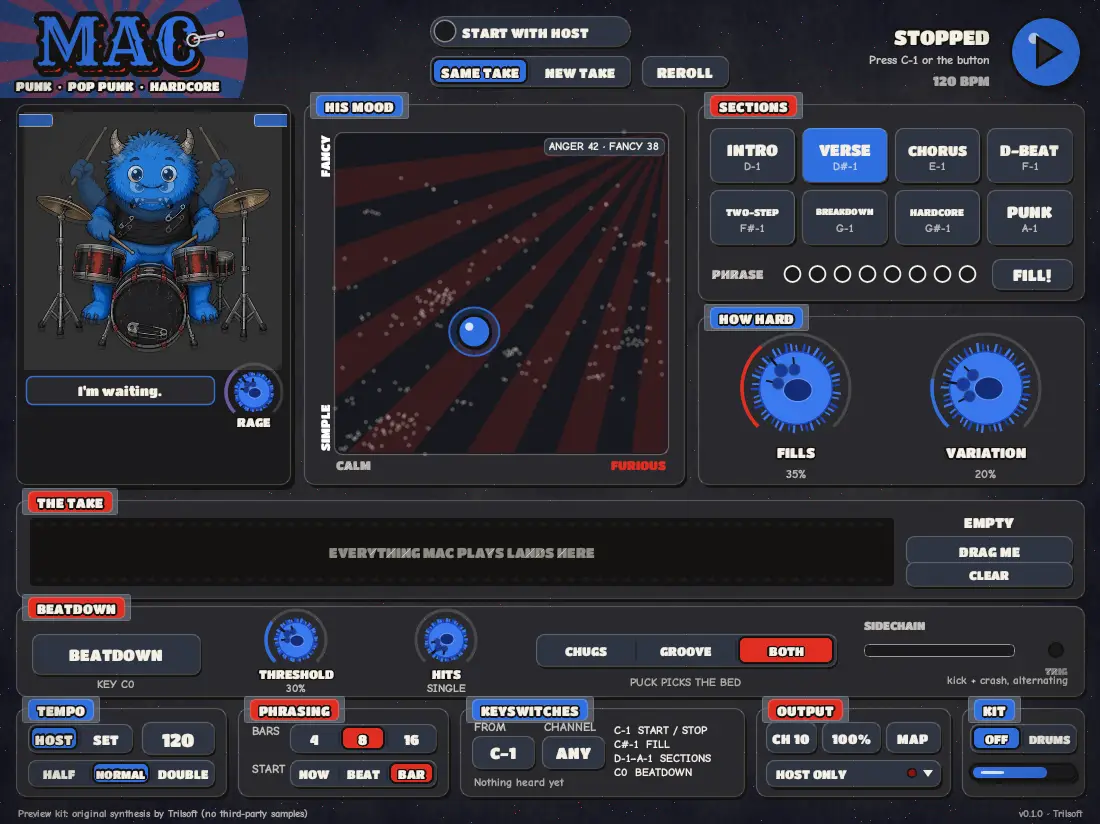
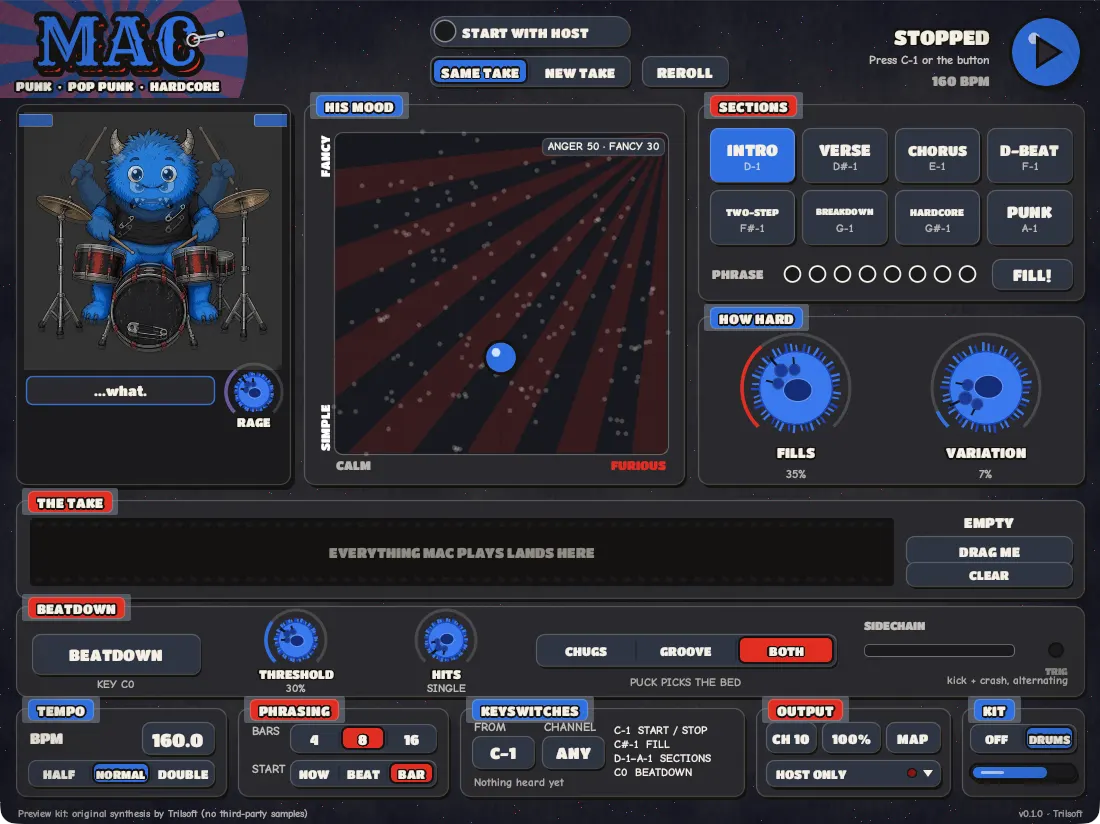
Use the current Mac and Bruno window screenshots.
Mac's tour and homepage now show the current default view, with Intro selected and Variation at 7%. Bruno's window uses the same current build, tall enough that Threshold and Hits stay on screen. The sidechain and port detail shots are unchanged.

diff --git a/public/bruno.html b/public/bruno.html
@@ -142,7 +142,7 @@ kbd{flex:none;font-family:var(--display);font-weight:400;font-size:13px;letter-s
 #cta .btn.buy{font-size:28px;padding:22px 42px 20px}
 
 /* overlays inside the window (window pixels, scaled with the camera) */
-.ov{position:absolute;left:0;top:0;width:1100px;height:736px;z-index:12;display:grid;place-items:center;background:rgba(28,21,18,.6);font-family:var(--body);font-weight:700;transition:opacity .3s}
+.ov{position:absolute;left:0;top:0;width:1100px;height:824px;z-index:12;display:grid;place-items:center;background:rgba(28,21,18,.6);font-family:var(--body);font-weight:700;transition:opacity .3s}
 .ov.off{opacity:0;visibility:hidden;pointer-events:none}
 .ov .box{background:var(--paper);border:3px solid var(--ink);border-radius:14px;box-shadow:7px 8px 0 var(--ink);padding:24px 26px;color:var(--ink)}
 .installer .box{width:540px}
@@ -164,7 +164,7 @@ kbd{flex:none;font-family:var(--display);font-weight:400;font-size:13px;letter-s
 .prompt .act{background:var(--red);color:var(--paper);opacity:.5}
 .prompt .act.go{opacity:1}
 /* a MIDI keyboard, for the keyswitch beat */
-.kb{position:absolute;left:470px;top:518px;width:268px;height:92px;z-index:11;transition:opacity .3s,transform .3s}
+.kb{position:absolute;left:470px;top:606px;width:268px;height:92px;z-index:11;transition:opacity .3s,transform .3s}
 .kb.off{opacity:0;transform:translateY(10px)}
 .kb .keys2{position:absolute;inset:0;background:var(--ink);border:3px solid var(--ink);border-radius:8px;box-shadow:5px 6px 0 rgba(28,21,18,.8);overflow:hidden}
 .kb .w{position:absolute;top:0;bottom:0;width:calc(100% / 7 - 2px);background:#fffaf0;border-radius:0 0 5px 5px}
@@ -389,7 +389,7 @@ html.static .poster,html.static .poster .burst,html.static .poster .bruno{animat
 <script src="/js/bruno-window.js"></script>
 <script>
 (() => {
-const W = 1100, H = 736;
+const W = 1100, H = 824;
 const ui = document.getElementById('ui');
 const host = document.createElement('div');
 ui.appendChild(host);
@@ -506,7 +506,7 @@ const beats = [
       if (a >= .78) click(st, a, win.seg('take', 0, 2), ctr('reroll'), .78, .88, .95, 'reroll');
     } },
   { id: 'beatdown', rail: 'Beatdown', len: 1.3 },
-  { id: 'phrasing', rail: 'Phrasing', focus: [pad(win.rect('tempo'), 0, 14), pad(win.rect('phrasing'), 0, 14)], cam: [8, 596, 452, 120], camPort: [8, 596, 452, 120], len: 1.5,
+  { id: 'phrasing', rail: 'Phrasing', focus: [pad(win.rect('tempo'), 0, 14), pad(win.rect('phrasing'), 0, 14)], cam: [8, 684, 452, 120], camPort: [8, 684, 452, 120], len: 1.5,
     apply(st, a, d) {
       if (d) { st.phrase = 16; st.launch = 'BEAT'; return; }
       let p = [300, 560];
@@ -516,7 +516,7 @@ const beats = [
       if (a >= .58) { st.setBpm = 160 + Math.round(24 * sm(seg(a, .6, .76))); }
       if (a >= .6 && a < .8) st.cur = { x: ctr('bpm')[0], y: ctr('bpm')[1] - 30 * sm(seg(a, .6, .76)), down: true };
     } },
-  { id: 'keys', rail: 'Keyswitches', focus: [pad(win.rect('keys'), 0, 14), pad(win.rect('sections'), 0, 14)], cam: [446, 92, 646, 620], camPort: [446, 300, 646, 420], len: 1.5,
+  { id: 'keys', rail: 'Keyswitches', focus: [pad(win.rect('keys'), 0, 14), pad(win.rect('sections'), 0, 14)], cam: [446, 92, 646, 720], camPort: [446, 300, 646, 510], len: 1.5,
     apply(st, a, d) {
       if (d) { st.section = 4; st.lastKey = 18; return; }
       st.kbOn = 1;
@@ -538,15 +538,15 @@ const beats = [
       const u = sm(seg(a, .28, .86));
       if (a >= .28) { st.cur = { x: dm[0] - 300 * u, y: dm[1] + 110 * u, down: true, drag: true }; st.clip = { x: st.cur.x + 14, y: st.cur.y + 10, o: a < .95 }; }
     } },
-  { id: 'output', rail: 'Output', focus: pad(win.rect('output'), 0, 14), cam: [560, 548, 540, 178], camPort: [560, 548, 540, 178], len: 1.4,
+  { id: 'output', rail: 'Output', focus: pad(win.rect('output'), 0, 14), cam: [560, 636, 540, 178], camPort: [560, 636, 540, 178], len: 1.4,
     apply(st, a, d) {
       if (d) { st.velocity = .9; st.port = 'VIRTUAL'; return; }
       const v = ctr('vel');
-      point(st, a, [600, 600], v, 0, .14, .4);
+      point(st, a, [600, 688], v, 0, .14, .4);
       if (a >= .14) { st.velocity = lerp(1, .9, sm(seg(a, .16, .34))); if (a < .4) st.cur = { x: v[0], y: v[1] + 20 * sm(seg(a, .16, .34)), down: true }; }
       if (a >= .4) click(st, a, [v[0], v[1] + 20], ctr('port'), .4, .52, .58, 'port', () => (st.portsOpen = true));
-      if (a >= .58 && a < .84) { const it = [800, 580 - 4 + 15 + 30]; point(st, a, ctr('port'), it, .58, .74, .84); st.portHover = a > .68 ? 1 : -1; }
-      if (a >= .84) { st.portsOpen = false; st.port = 'VIRTUAL'; st.cur = { x: 800, y: 621, down: false }; }
+      if (a >= .58 && a < .84) { const it = [800, 668 - 4 + 15 + 30]; point(st, a, ctr('port'), it, .58, .74, .84); st.portHover = a > .68 ? 1 : -1; }
+      if (a >= .84) { st.portsOpen = false; st.port = 'VIRTUAL'; st.cur = { x: 800, y: 709, down: false }; }
     } },
   { id: 'map', rail: 'Map', focus: pad(win.rect('notemap'), -2, 14), cam: [262, 104, 576, 442], camPort: [262, 104, 576, 442], len: 1.4,
     apply(st, a, d) {
@@ -559,10 +559,10 @@ const beats = [
       if (a >= .38) click(st, a, plus, gm, .38, .54, .6, 'gm', () => (st.notes = {}));
       if (a >= .66) click(st, a, gm, done, .66, .82, .88, 'done', () => (st.mapOpen = a < .9));
     } },
-  { id: 'kit', rail: 'Kit', focus: pad(win.rect('kit'), 0, 14), cam: [940, 596, 156, 120], camPort: [880, 596, 216, 120], len: 1.15,
+  { id: 'kit', rail: 'Kit', focus: pad(win.rect('kit'), 0, 14), cam: [940, 684, 156, 130], camPort: [880, 684, 216, 130], len: 1.15,
     apply(st, a, d) {
       if (d) { st.kit = 'DRUMS'; st.vol = .65; return; }
-      click(st, a, [900, 560], win.seg('kitsegs', 1, 2), 0, .2, .28, 'kit', () => (st.kit = 'DRUMS'));
+      click(st, a, [900, 648], win.seg('kitsegs', 1, 2), 0, .2, .28, 'kit', () => (st.kit = 'DRUMS'));
       if (a >= .4) {
         const r = win.rect('vol');
         point(st, a, win.seg('kitsegs', 1, 2), [r[0] + r[2] * .8, r[1] + 8], .4, .54, 1);

diff --git a/public/js/bruno-window.js b/public/js/bruno-window.js
@@ -11,7 +11,7 @@
    section sits in the built-in bank (x anger, y fancy). */
 (function (G) {
 'use strict';
-const W = 1100, H = 736;
+const W = 1100, H = 824;
 const INK = '#1c1512', PAPER = '#f6eacf', PAPER_DARK = '#e2cd9f', RED = '#b5322a', RED_DARK = '#7a1f1a',
   MUSTARD = '#e0a526', ORANGE = '#e87828', TEAL = '#3f7f7a', TEAL_DARK = '#244e4a', WHITE = '#ffffff';
 const TAU = Math.PI * 2, PI = Math.PI;
@@ -114,11 +114,11 @@ const RECTS = {
   sections: R(698, 104, 1084, 300), marquees: R(710, 128, 1072, 244), phrase: [710, 259, 260, 30], fillnow: [992, 259, 80, 30],
   knobs: R(698, 316, 1084, 484), fillknob: [736, 328, 120, 150], varknob: [926, 328, 120, 150],
   takestrip: R(16, 500, 1084, 598), strip: R(30, 518, 894, 586), takeside: R(906, 514, 1072, 588), dragme: [906, 536, 166, 28], clear: [906, 562, 166, 24],
-  tempo: R(16, 620, 226, 708), tempoSrc: [28, 636, 104, 28], bpm: [142, 634, 72, 32], speed: [28, 672, 186, 26],
-  phrasing: R(238, 620, 448, 708), bars: [290, 636, 146, 28], launch: [290, 672, 146, 26],
-  keys: R(460, 620, 744, 708), keyFrom: [472, 648, 62, 32], keyCh: [542, 648, 62, 32], legend: [612, 632, 130, 50],
-  output: R(756, 620, 950, 708), chan: [766, 634, 50, 30], vel: [822, 634, 58, 30], map: [886, 634, 54, 30], port: [766, 672, 174, 26],
-  kit: R(962, 620, 1084, 708), kitsegs: [970, 636, 106, 28], vol: [970, 676, 106, 16],
+  tempo: R(16, 708, 226, 796), tempoSrc: [28, 724, 104, 28], bpm: [142, 722, 72, 32], speed: [28, 760, 186, 26],
+  phrasing: R(238, 708, 448, 796), bars: [290, 724, 146, 28], launch: [290, 760, 146, 26],
+  keys: R(460, 708, 744, 796), keyFrom: [472, 736, 62, 32], keyCh: [542, 736, 62, 32], legend: [612, 720, 130, 50],
+  output: R(756, 708, 950, 796), chan: [766, 722, 50, 30], vel: [822, 722, 58, 30], map: [886, 722, 54, 30], port: [766, 760, 174, 26],
+  kit: R(962, 708, 1084, 796), kitsegs: [970, 724, 106, 28], vol: [970, 764, 106, 16],
   notemap: [270, 120, 560, 420], portmenu: [650, 572, 300, 96],
 };
 for (let i = 0; i < 8; i++) RECTS['sec' + i] = [710 + (i % 4) * 92.5, 128 + Math.floor(i / 4) * 62, 84.5, 54];
@@ -355,6 +355,8 @@ function BrunoWindow(host, opts = {}) {
   const fontUrl = f => (opts.fonts && opts.fonts[f]) || base + 'assets/fonts/bruno/' + FONTS[f].file;
   const art = new Image();
   art.src = opts.art || base + 'assets/bruno-art.webp';
+  const shot = new Image();
+  shot.src = opts.shot || base + 'img/bruno/ui-current.webp';
   const cv = document.createElement('canvas');
   cv.setAttribute('role', 'img');
   cv.setAttribute('aria-label', "Bruno's window: his stage, the mood pad, sections, fills and variation, the take, and the settings.");
@@ -432,6 +434,12 @@ function BrunoWindow(host, opts = {}) {
     st = Object.assign({}, BASE, st);
     const t = st.time, f = feel(st);
     c.setTransform(scale, 0, 0, scale, 0, 0);
+    if (shot.complete && shot.naturalWidth) {
+      c.drawImage(shot, 0, 0, W, H);
+      portMenu(st);
+      noteMap(st);
+      return;
+    }
     c.fillStyle = PAPER; c.fillRect(0, 0, W, H);
     c.drawImage(paperTexture(), 0, 0, W, H);
     header(st, f);
@@ -681,7 +689,7 @@ function BrunoWindow(host, opts = {}) {
   function portMenu(st) {
     if (!st.portsOpen) return;
     const items = [['', 'HOST ONLY'], ['VIRTUAL', 'VIRTUAL PORT "Bruno"'], ['IAC Driver Bus 1', 'IAC DRIVER BUS 1']];
-    const h = 30 * items.length + 12, w = 300, at = [950 - w, 668 - h - 4];
+    const h = 30 * items.length + 12, w = 300, at = [950 - w, 756 - h - 4];
     P.card([at[0], at[1], w, h], 10, PAPER, 5);
     items.forEach(([v, label], i) => {
       const r = [at[0] + 6, at[1] + 6 + 30 * i, w - 12, 28];
